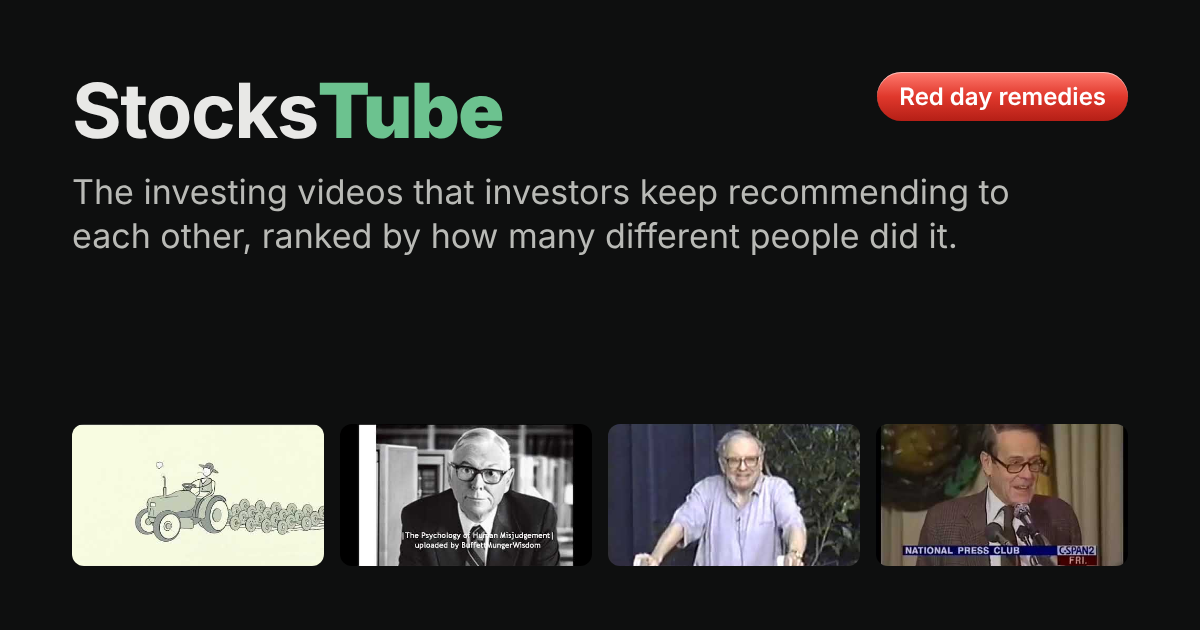
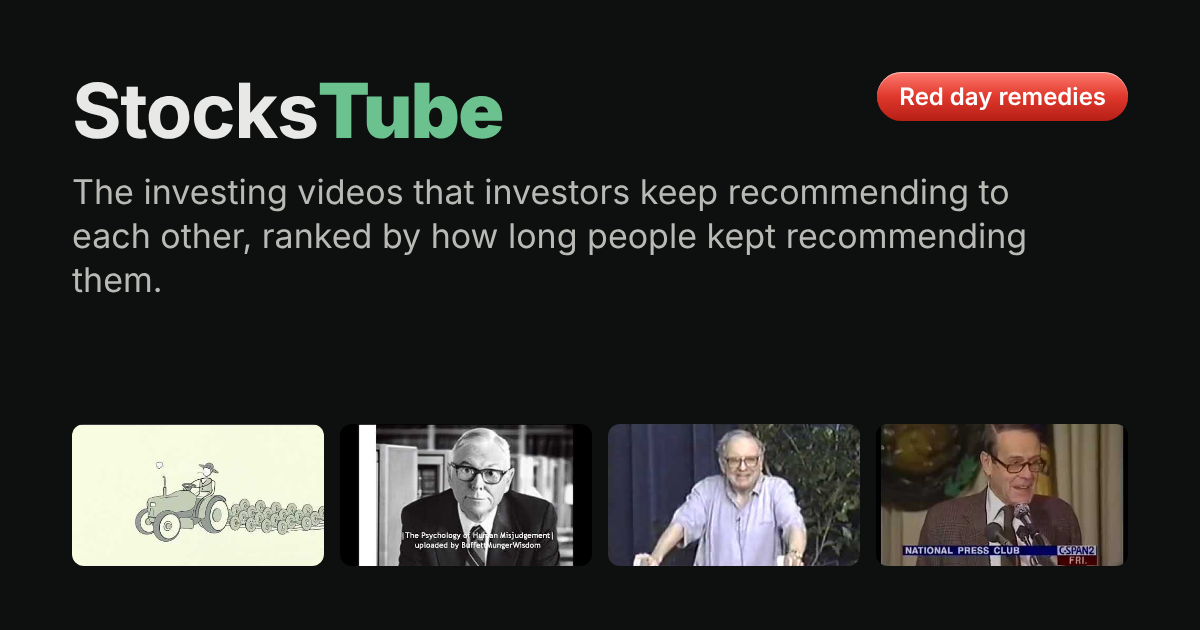
fix(site): describe the months-based ranking on about page and preview card
Claude-Session: https://claude.ai/code/session_01CjWmM4HG2VgqJX3JDGHhrK

Changed region(s): [[0.4317, 0.3317, 0.8633, 0.4222], [0.0617, 0.4222, 0.1233, 0.4825]]

diff --git a/site/index.html b/site/index.html
@@ -1,6 +1,6 @@
 <!doctype html><html lang="en"><head><meta charset="utf-8"><meta name="viewport" content="width=device-width,initial-scale=1">
 <title>StocksTube</title><meta name="description" content="Investing videos that serious investing communities keep recommending.">
-<meta property="og:type" content="website"><meta property="og:url" content="https://stockstube.org/"><meta property="og:title" content="StocksTube"><meta property="og:description" content="The investing videos that investors keep recommending to each other, ranked by how many different people did it."><meta property="og:image" content="https://stockstube.org/og.png"><meta property="og:image:width" content="1200"><meta property="og:image:height" content="630"><meta name="twitter:card" content="summary_large_image"><meta name="twitter:title" content="StocksTube"><meta name="twitter:description" content="The investing videos that investors keep recommending to each other, ranked by how many different people did it."><meta name="twitter:image" content="https://stockstube.org/og.png">
+<meta property="og:type" content="website"><meta property="og:url" content="https://stockstube.org/"><meta property="og:title" content="StocksTube"><meta property="og:description" content="The investing videos that investors keep recommending to each other, ranked by how long people kept recommending them."><meta property="og:image" content="https://stockstube.org/og.png"><meta property="og:image:width" content="1200"><meta property="og:image:height" content="630"><meta name="twitter:card" content="summary_large_image"><meta name="twitter:title" content="StocksTube"><meta name="twitter:description" content="The investing videos that investors keep recommending to each other, ranked by how long people kept recommending them."><meta name="twitter:image" content="https://stockstube.org/og.png">
 <link rel="stylesheet" href="style.css"></head><body>
 <header><a href="#/" class="logo">Stocks<b>Tube</b></a><input id="q" type="search" placeholder="Search titles, speakers, events" autocomplete="off"><a href="#/about" class="nav">About</a></header>
 <main id="app"></main>

diff --git a/site/app.js b/site/app.js
@@ -84,7 +84,7 @@ async function video(id) {
 function about() {
   document.title = 'About · StocksTube';
   app.innerHTML = `<div class="prose"><h1>About</h1>
-  <p>StocksTube lists the investing videos that people in investing communities keep recommending to each other. It counts distinct people who linked a video, across communities and years, in public comments on Hacker News and investing subreddits.</p>
+  <p>StocksTube lists the investing videos that people in investing communities keep recommending to each other. It reads public comments on Hacker News and investing subreddits and ranks each video by how many separate months new people recommended it, so a video people kept recommending for years beats a one-week spike.</p>
   <p>A video needs at least two different people recommending it. Bots, critical mentions and people linking their own channels do not count. Duplicate uploads of the same talk are merged. Titles are plain labels written from the video and the comments, not the uploader's title.</p>
   <h2>Sources</h2><table>${META.sources.map(s => `<tr><td>${esc(s[0])}</td><td>${s[1].toLocaleString()} mentions</td></tr>`).join('')}</table>
   <p>${META.entries.toLocaleString()} videos listed. Data built ${esc(META.built)}.</p>
